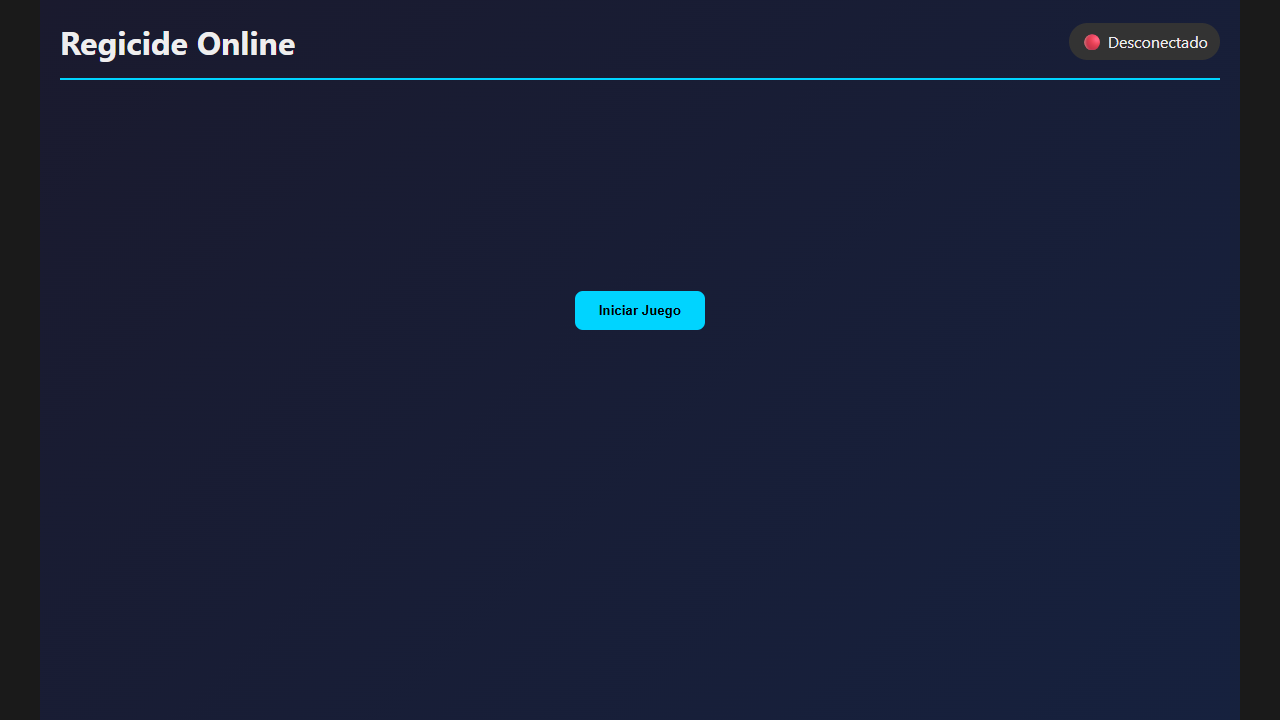
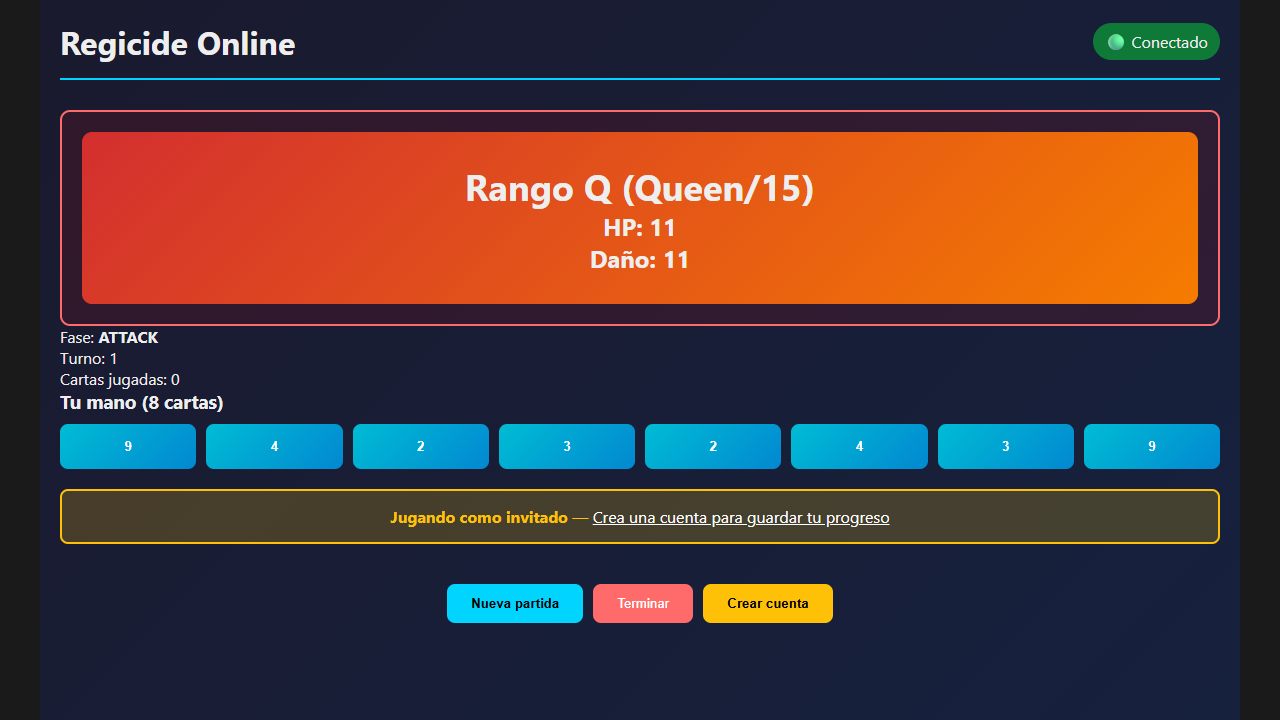
feat(websocket): use pure WebSocket instead of SockJS
Remove SockJS fallback to fix CORS issues with XHR polling.
Pure WebSocket works without CORS complications.

- Backend: remove .withSockJS() from WebSocketConfig
- Frontend: change URL from http:// to ws:// protocol
- Frontend: remove sockjs-client dependency and webSocketFactory config
- RxStomp now uses native WebSocket transport

WebSocket now connects successfully. Guest mode fully playable.

diff --git a/frontend/src/app/shared/services/game-websocket.service.ts b/frontend/src/app/shared/services/game-websocket.service.ts
@@ -1,6 +1,5 @@
 import { Injectable } from '@angular/core';
 import { RxStomp } from '@stomp/rx-stomp';
-import SockJS from 'sockjs-client';
 import { BehaviorSubject, Observable } from 'rxjs';
 import { map } from 'rxjs/operators';
 import { environment } from '@app/environments/environment';
@@ -36,8 +35,7 @@ export class GameWebSocketService {
       brokerURL: wsUrl,
       reconnectDelay: 5000,
       heartbeatIncoming: 4000,
-      heartbeatOutgoing: 4000,
-      webSocketFactory: () => new SockJS(wsUrl) as any
+      heartbeatOutgoing: 4000
     });
 
     this.rxStomp.activate();

diff --git a/frontend/src/app/environments/environment.ts b/frontend/src/app/environments/environment.ts
@@ -1,5 +1,5 @@
 export const environment = {
   production: false,
   apiUrl: 'http://localhost:8080/api',
-  wsUrl: 'http://localhost:8080/api/ws/game'
+  wsUrl: 'ws://localhost:8080/api/ws/game'
 };

diff --git a/backend/src/main/java/com/regicide/config/WebSocketConfig.java b/backend/src/main/java/com/regicide/config/WebSocketConfig.java
@@ -19,7 +19,6 @@ public class WebSocketConfig implements WebSocketMessageBrokerConfigurer {
     @Override
     public void registerStompEndpoints(StompEndpointRegistry registry) {
         registry.addEndpoint("/ws/game")
-                .setAllowedOrigins("http://localhost:4200")
-                .withSockJS();
+                .setAllowedOrigins("http://localhost:4200");
     }
 }